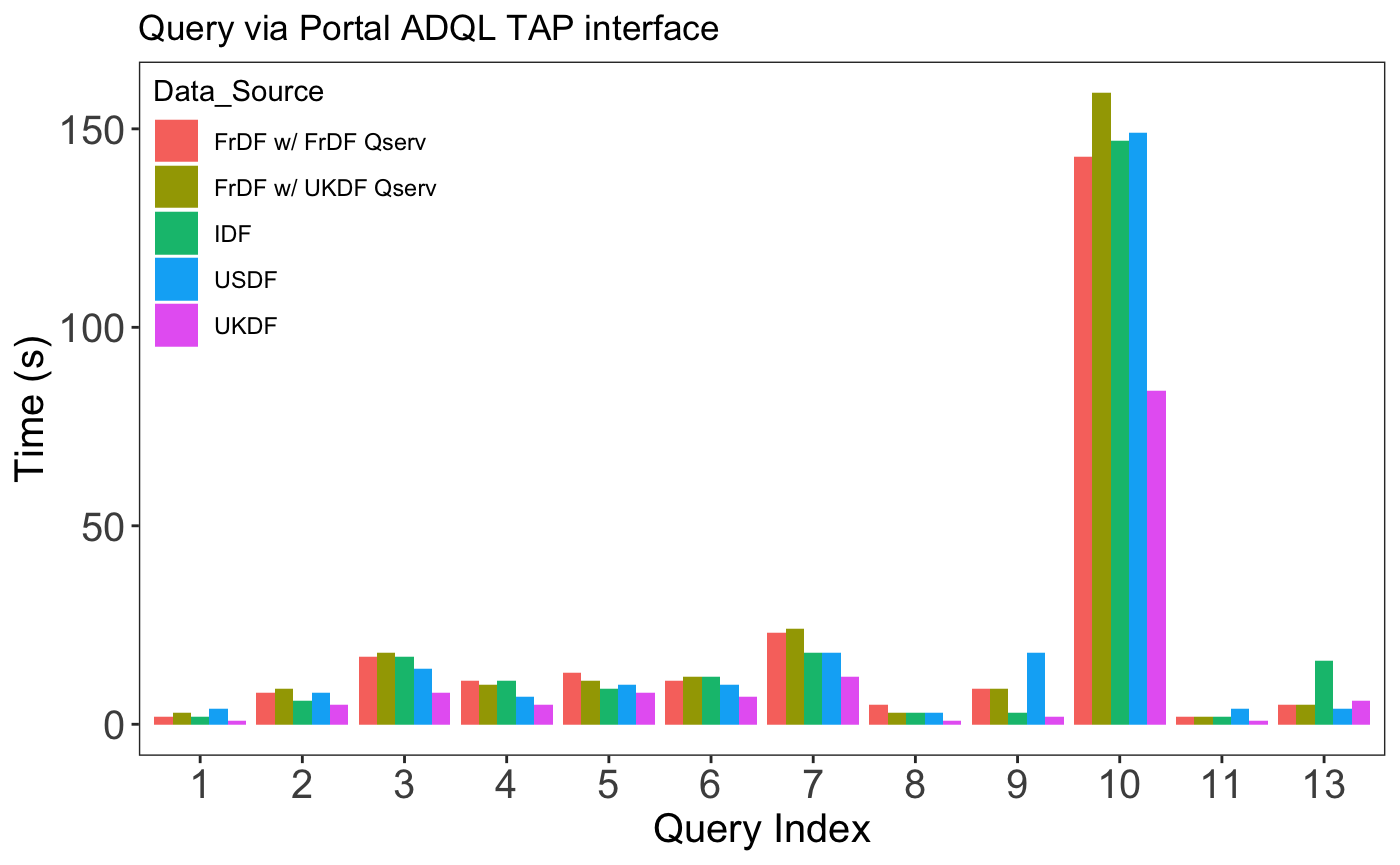
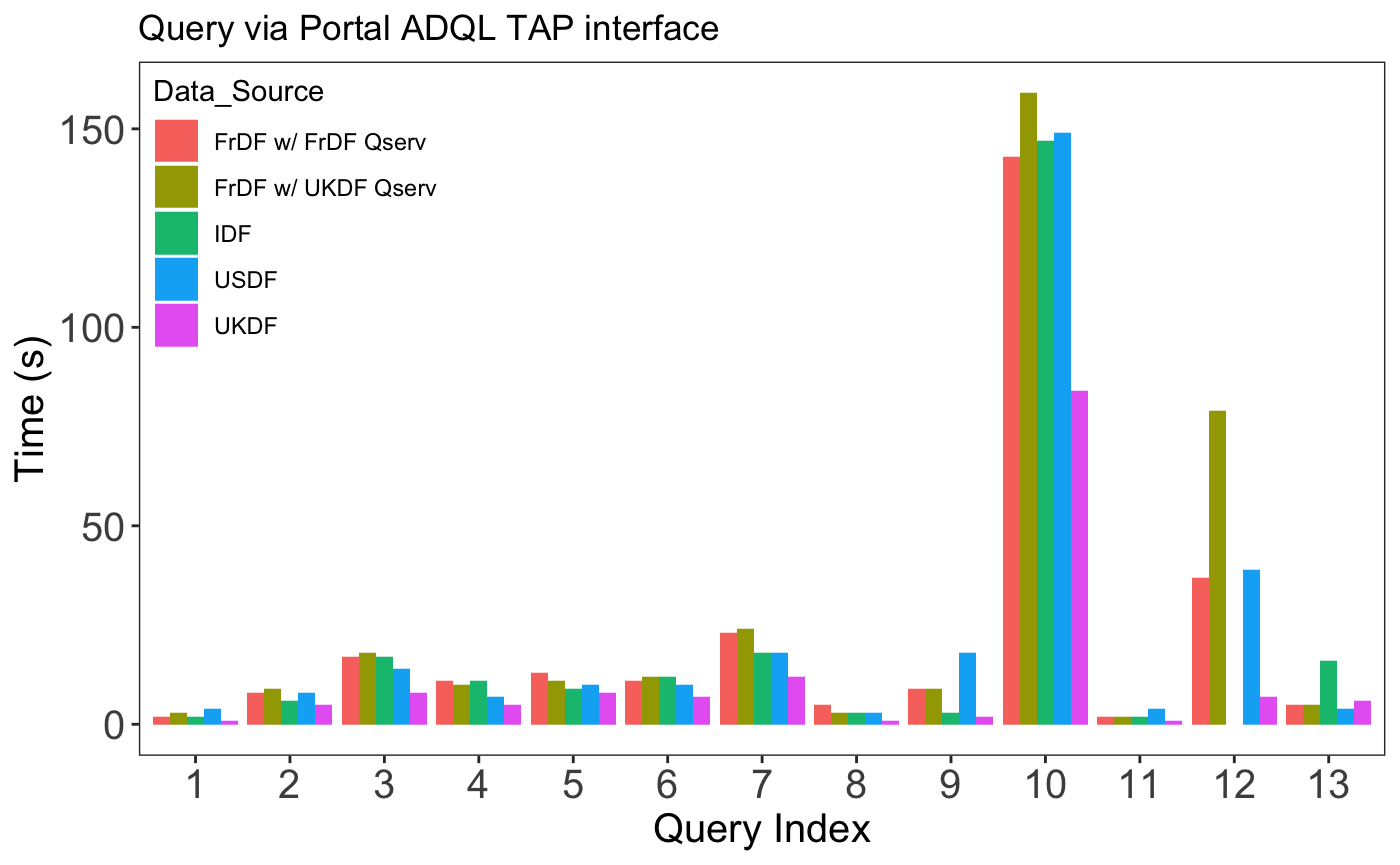
Imporved plot when IDF outliers

diff --git a/index.md b/index.md
@@ -176,7 +176,7 @@ The next plot shows the results for queries executed using the ADQL interface di
 ADQL Queries via TAP Portal interface for IDF, USDF, and FrDF instances. FrDF RSP configured with FrDF and UKDF Qserv backend.
 ```
 
-We note a generally better performance of USDF RSP, but for the other RSP instances, there are no significant differences (excluding query number 12, removed in the next plot, which seems to have some problem with IDF).
+We note a generally better performance of USDF RSP, but for the other RSP instances, there are no significant differences (if we exclude query 12, which seems to have some issues with IDF, and for which we removed the IDF values to make the plot easier to read).
 
 ```{figure} ./images/tap_time_no_outliers.png
 
